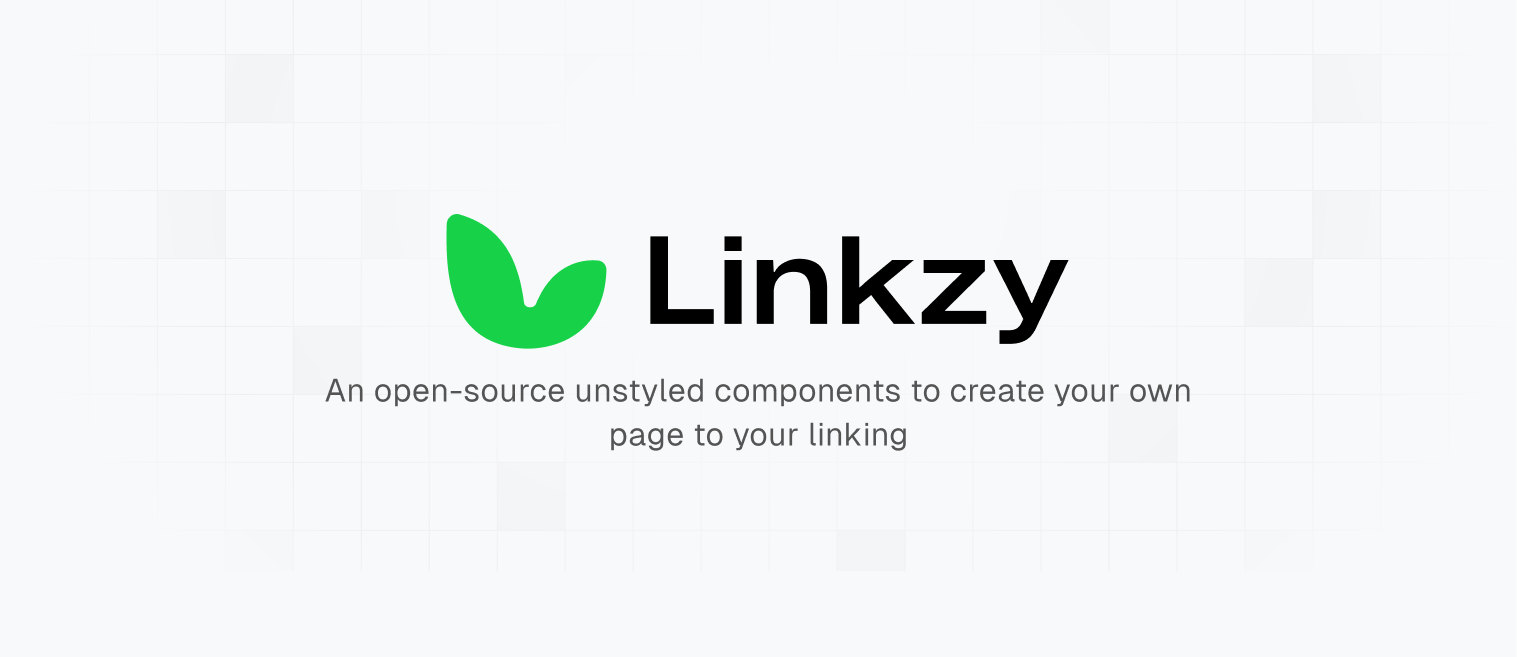
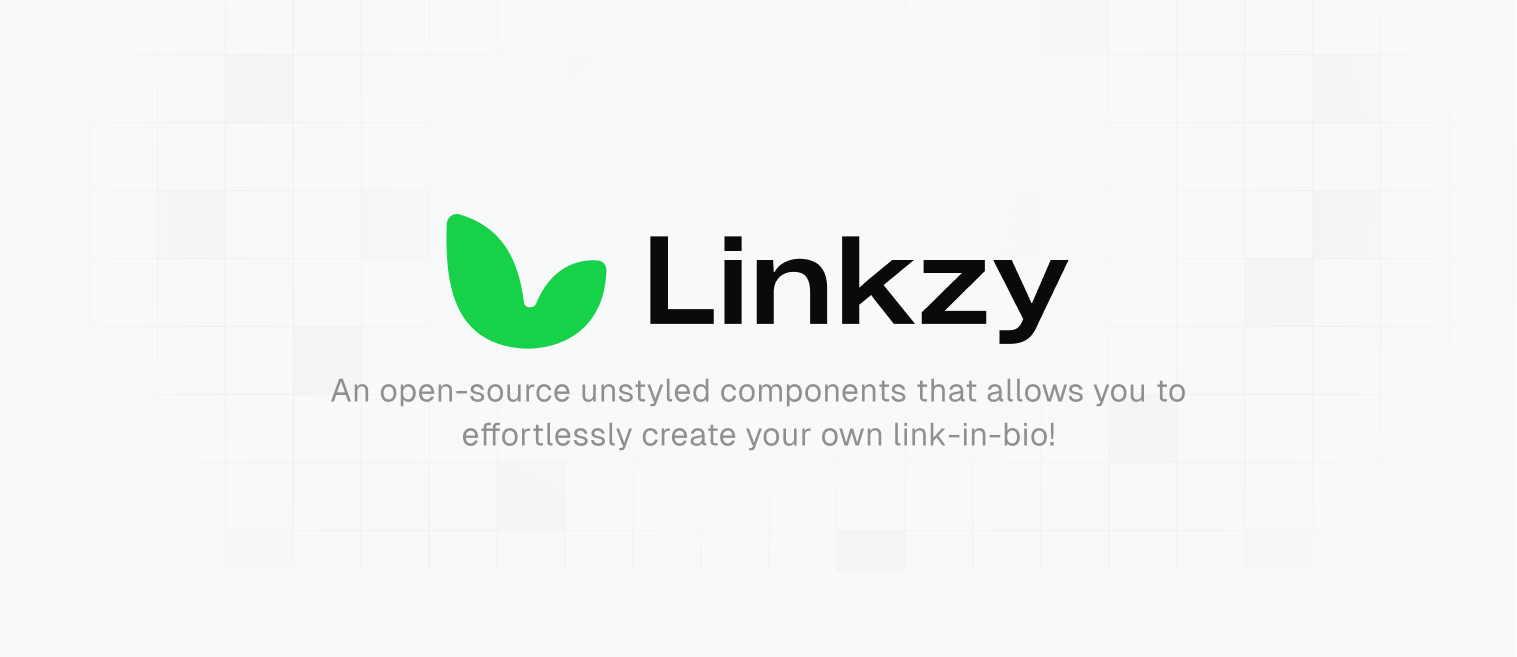
chore: updated documentation

Changed region(s): [[0.2169, 0.5784, 0.8055, 0.7002]]

diff --git a/README.md b/README.md
@@ -1,17 +1,17 @@
 ![Linkzy Logo](cover.png)
 
 <div align="center"><strong>Linkzy</strong></div>
-<div align="center">Unstyled components for creating pages similar to Linktree.</div>
+<div align="center">Unstyled components for create your own link-in-bio page.</div>
 <br />
 <div align="center">
 <a href="https://github.com/coderdiaz/linkzy">GitHub</a> 
-<!-- <span> · </span>
-<a href="#">Discord</a> -->
+<span> · </span>
+<a href="./LICENSE.md">License</a>
 </div>
 
 ## Introduction
 
-An open-source collection of unstyled components for creating pages similar to Linktree using React, Vue (soon) and Svelte (soon). Stop creating pages with the same styles as everyone else. With Linkzy you can create your own styles and customize your page to your liking.
+An open-source collection of unstyled components for create your link-in-bio using React, Vue (soon) and Svelte (soon). Say goodbye to generic page designs and stand out from the crowd. Linkzy empowers you to fully customize your link-in-bio according to your preferences.
 
 ## Install
 
@@ -79,6 +79,6 @@ const Template = () => {
 
 ## License
 
-Licensed under the mIT License, Copyright &copy; 2023 Javier Diaz Chamorro
+Licensed under the MIT License. See [LICENSE](./LICENSE.md) for more information.
 
-See [LICENSE](./LICENSE.md) for more information.
+Copyright &copy; 2023 Javier Diaz Chamorro

diff --git a/packages/react/README.md b/packages/react/README.md
@@ -1,10 +1,10 @@
 <div align="center"><strong>@linkzy/react</strong></div>
-<div align="center">Collection of unstyled components that will help you create your own linkings page</div>
+<div align="center">Collection of unstyled components for create your own link-in-bio</div>
 <br />
 <div align="center">
 <a href="https://github.com/coderdiaz/linkzy">GitHub</a> 
-<!-- <span> · </span>
-<a href="#">Discord</a> -->
+<span> · </span>
+<a href="../../LICENSE.md">License</a>
 </div>
 
 ## Install
